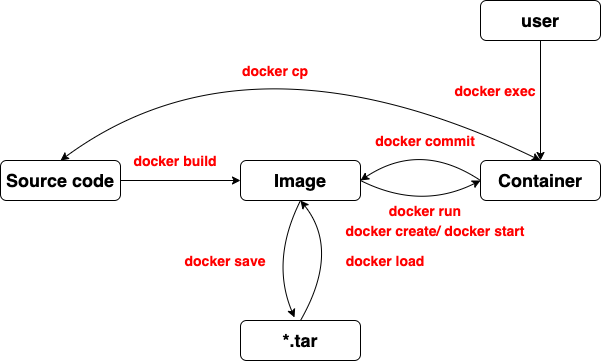
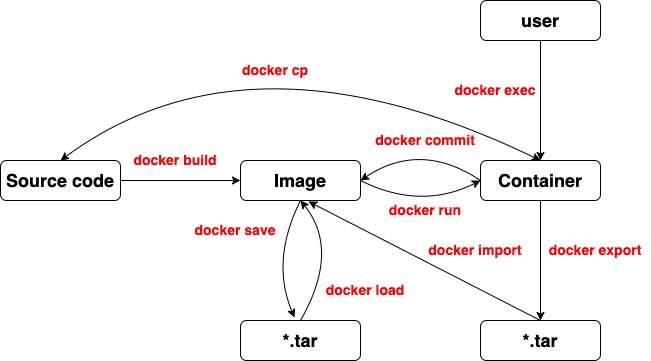
Docker

diff --git a/Docker/Command.htm b/Docker/Command.htm
@@ -20,30 +20,58 @@
 			<li>contains the container's filesystem, it must contain everything needed to run an application - all dependencies, configuration, scripts, binaries, etc.</li>
             <li>Show Images</li>
 		<pre class = "prettyprint linenums">
-docker images # show a list of all images on the local system
+# show a list of all images on the local system
+docker images
+docker image ls
         </pre>
         <li>Remove Images</li>
 		<pre class = "prettyprint linenums">
-docker rmi # remove a image
-docker rmi $(docker images -a -q) # remove all images
+# remove an image
+docker image rm [imageName]
+docker rmi [imageName]
+
+# remove all images
+docker rmi $(docker images -a -q)
         </pre>
         <li>Pull Image</li>
 		<pre class = "prettyprint linenums">
-docker pull [imageName] # fetch an Docker image from Docker Registry
+# fetch an Docker image from Docker Registry
+docker pull [imageName]
+docker image pull [imageName]
+        </pre>
+        <li>Create Image</li>
+		<pre class = "prettyprint linenums">
+# docker build -t [imageName:tagName] [sourceCodeDir]
+docker build -t [imageName] .
+docker image build -t [imageName] .
         </pre>
         <li>Push Image</li>
 		<pre class = "prettyprint linenums">
 docker push [imageName:tagname] # push the image with the tag to Docker Hub, default is latest
+docker image push [imageName:tagName]
         </pre>
         <li>Save Image</li>
 		<pre class = "prettyprint linenums">
 # save an image as a tar file
-docker save -o name.tar [imageNam]
+docker save -o name.tar [imageName]
+docker image save -o name.tar [imageName]
         </pre>
         <li>Load Image</li>
 		<pre class = "prettyprint linenums">
 # load an image from a tar file
 docker load -i name.tar
+docker image load -i name.tar
+        </pre>
+        <li>Inspect Image</li>
+		<pre class = "prettyprint linenums">
+# display detailed image information
+docker inspect [imageName]
+docker image inspect [imageName]
+        </pre>
+        <li>Import Image</li>
+		<pre class = "prettyprint linenums">
+docker image import [name.tar] [imageName]
+docker import [name.tar] [imageName]
         </pre>
         </div>
         <div class = "subtitle">Container</div>
@@ -68,7 +96,14 @@ docker run -it busybox sh
 # -e, environment variables
 docker run -d -P --name [containerName] [imageName]
 docker run -p 80:8080 [imageName]
-        </pre>  
+
+docker container run [imageName]
+        </pre>   
+            <li>Inspect Container</li>
+		<pre class = "prettyprint linenums">
+docker inspect [containerName]
+docker container inspect [containerName]
+        </pre> 
             <li>Show Containers</li>
 		<pre class = "prettyprint linenums">
 # show containers running
@@ -85,13 +120,14 @@ docker cp [containerID/containerName]:src_path local_dest_path # copy a containe
 
 docker cp local_src_path [containerID/containerName]:container_dest_path # copy a local file to a container
         </pre>
-        <li>Remotely Access a Container</li>
+        <li>Access a Container</li>
 		<pre class = "prettyprint linenums">
 docker attach [containerName]
 
 or
 
 docker exec -it [containerName] sh
+docker container exec -it [containerName] sh
         </pre>
         <li>Convert Container to Image</li>
 		<pre class = "prettyprint linenums">
@@ -104,12 +140,32 @@ docker kill [contaierID] # kill a running container</li>
         </pre>
         <li>Start Container</li>
 		<pre class = "prettyprint linenums">
-docker start -ia [containerName] # start a stopped container
+docker start -ia [containerName]
+docker container start [containerName]
+        </pre>
+        <li>Restart Container</li>
+		<pre class = "prettyprint linenums">
+docker restart [containerName]
+docker container restart [containerName]
+        </pre>
+        <li>Stop Container</li>
+		<pre class = "prettyprint linenums">
+docker stop [containerName]
+docker container stop [containerName]
         </pre>
         <li>Remove Container</li>
 		<pre class = "prettyprint linenums">
 docker rm [containerID/containerName] # remove a container that is not running
+docker container rm [containerName]
 docker rm $(docker ps -a -f status=exited -q), remove all exited containers
+        </pre>
+        <li>Display Container Log</li>
+		<pre class = "prettyprint linenums">
+docker container logs [containerName]
+        </pre>
+        <li>Export Container</li>
+		<pre class = "prettyprint linenums">
+docker container export -o name.tar [contianerName]
         </pre>
 		<pre class = "prettyprint linenums">
 docker create --name [containerName ]-it [imageName] [command] # create a container
@@ -148,6 +204,17 @@ docker network rm [networkName], remove a network
 docker network prune, remove all networks
         </pre>
         </div>
+        <div class = "subtitle">Volume</div>
+        <div class = "block">
+            <li>List Volumes
+		<pre class = "prettyprint linenums">
+docker volume ls
+        </pre>
+            <li>Remove Volume
+		<pre class = "prettyprint linenums">
+docker volume rm [volumeName]
+        </pre>
+        </div>
         <div class = "subtitle">Docker Registry</div>
         <div class = "block">
             <li>Docker Hub</li>
@@ -158,12 +225,10 @@ docker login # log in Docker Hub
         <div class = "subtitle">Others</div>
         <div class = "block">
                 <li>docker [command] --help, get the help information of a command</li>
-                <li>docker inspect [containerID/containerName], get low-level information on Docker objects</li>
-                <li>docker logs [containerID/containerName], get logs present at the time of execution</li>
-		        <li>docker port [containerName], get port</li>
 		</div>
 		<div class = "subtitle">Reference</div>
 		<div class = "block">
+            <li><a href = "https://www.educba.com/software-development/software-development-tutorials/docker-tutorial/">Docker Tutorial</a></li>
             <li><a href = "https://docs.docker.com/engine/reference/run/">Docker CLI</a></li>
 		</div>
 	</body>

diff --git a/Python3/Dash/Datatable.htm b/Python3/Dash/Datatable.htm
@@ -711,6 +711,13 @@ if __name__ == '__main__':
                     <li>the visible data across all pages</li>
                 </ul>
             </li>
+        </div>
+        <div class = "block">
+            <li><span>selected_rows</span>, original indices of selected rows</li>
+            <li><span>derived_viewport_selected_rows</span>, indices of selected rows in the current page</li>
+            <li><span>derived_virtual_selected_rows</span>, indices of selected rows after sorting, deletion, filtering</li>
+        </div>
+        <div class = "block">
 		<pre class = "prettyprint linenums">
 import dash
 import pandas as pd
@@ -731,6 +738,8 @@ app.layout = html.Div([dash_table.DataTable(
     data=df.to_dict('records'),
     columns=[{'id': c, 'name': c} for c in df.columns],
     row_selectable = 'multi',
+    row_deletable = True,
+    filter_action = 'native',
     page_size = 20,
     sort_action="native",
     sort_mode="multi",
@@ -771,6 +780,54 @@ if __name__ == '__main__':
             <li><span>start_cell</span>, the initial cell of the selected cells</li>
             <li><span>end_cell</span>, the last cell of the selected cells</li>
             <li><span>selected_cells</span>, the selected cells</li>
+        </div>
+		<div class = "subtitle">Filtering</div>
+        <div class = "block">
+            <li><span>filter_action</span>
+                <ul>
+                    <li>'native', the filtering logic is handled by the table</li>
+                    <li>'custom', program the filtering through a callback</li>
+                </ul>
+            </li>
+            <li>Operators
+                <ul>
+                    <li>=</li>
+                    <li>contains</li>
+                    <li>datestartswith</li>
+                    <li>&gt;, &lt;, &gt;=, &lt;=, !=</li>
+                </ul>
+            </li>
+        </div>
+		<div class = "block">
+		<pre class = "prettyprint linenums">
+# native
+import dash
+import pandas as pd
+from dash import html
+from dash import dcc
+from dash import dash_table
+from dash.dependencies import Output, Input
+from dash.exceptions import PreventUpdate
+
+app = dash.Dash(__name__)
+
+df = pd.read_csv('https://raw.githubusercontent.com/plotly/datasets/master/gapminderDataFiveYear.csv')
+
+app = dash.Dash(__name__)
+
+app.layout = html.Div([dash_table.DataTable(
+    id = 'table',
+    data=df.to_dict('records'),
+    columns=[{'id': c, 'name': c} for c in df.columns],
+    filter_action = 'native',
+    page_size = 20,
+),
+              html.Div(id = 'output')
+    ])
+
+if __name__ == '__main__':
+    app.run_server(debug=True)
+        </pre>
         </div>
 		<div class = "subtitle">Backend Paging</div>
 		<div class = "block">

diff --git a/Docker/Registry.htm b/Docker/Registry.htm
@@ -1,0 +1,53 @@
+<!DOCTYPE html>
+<html>
+	<head>
+		<title>Docker</title>
+		<link rel="stylesheet" href="../css/atelier-sulphurpool-light.css" type="text/css">
+		<script src="../js/google-code-prettify/run_prettify.js?autoload=true&amp;lang=css"></script>
+		<style>
+			div.title {color: navy; font-weight: bold; width: 80%; font-size: 32px; text-align: center; position: relative; margin: auto;}
+			div.subtitle {color: navy; font-weight: bold; width: 80%; font-size: 24px; text-align: position: relative; margin: auto;}
+			div.block {color: navy; font-weight: bold; width: 80%; border-style: solid; padding: 5px; position: relative; margin: 10px auto; border-radius: 5px;}
+			span {color: red; font-weight: bold;}
+		</style>
+	</head>
+	<body>
+		<div class = "title">
+			Registry
+		</div>
+        <div class = "block">
+            <li>Public registry, <a href = "https://hub.docker.com/">docker hub</a></li>
+            <li>Private registry, ECR (AWS), ACR (Azure), GCR (Google)</li>
+            <li>Local registry</li>
+        </div>
+        <div class = "subtitle">Login Registry</div>
+        <div class = "block">
+		<pre class = "prettyprint linenums">
+docker login # login Docker Hub
+docker login [domainName] # login a private registry
+        </pre>
+        </div>
+        <div class = "subtitle">Local Registry</div>
+        <div class = "block">
+		<pre class = "prettyprint linenums">
+# start a local registry
+docker run -d -p 5000:5000 --restart=always --name registry registry:2
+
+# push image
+docker tag redis localhost:5000/redis
+docker push localhost:5000/redis
+
+# pull image
+docker pull localhost:5000/redis
+
+# list images on local registry
+http://localhost:5000/v2/_catalog
+        </pre>
+        </div>
+        <div class = "subtitle">Reference</div>
+        <div class = "block">
+            <li><a href = "https://mesosphere.github.io/marathon/docs/native-docker-private-registry.html">Using a Private Docker Registry</a></li>
+            <li><a href = "https://docs.docker.com/registry/deploying/">Deploy a Registry Server</a></li>
+        </div>
+    </body>
+</html>

diff --git a/Docker/index.htm b/Docker/index.htm
@@ -191,7 +191,8 @@ a:hover {
 	<li><a href = "Intro.htm">Intro</a></li>
 	<li><a href = "Command.htm">Command</a></li>
 	<li><a href = "Persistence.htm">Persistence</a></li>
-	<li><a href = "Dockerfile.htm">Dockerfile</a></li>
+	<li><a href = "Dockerfile.htm">Dockerfile</a></li>>
+	<li><a href = "Registry.htm">Registry</a></li>
 	<li><a href = "Network.htm">Network</a></li>
 	<li><a href = "Compose.htm">Compose</a></li>
     <li><a href = "Jenkins.htm">Jenkins<sup style="color:red">Persistence</sup></a></li>

diff --git a/Docker/Compose.htm b/Docker/Compose.htm
@@ -324,6 +324,7 @@ networks:
 
 docker-compose up # start all services
 docker-compose up webapp # start service webapp
+docker-compose -f [composeFileName] up # specify compose file
 
 # turn off services
 docker-compose down
